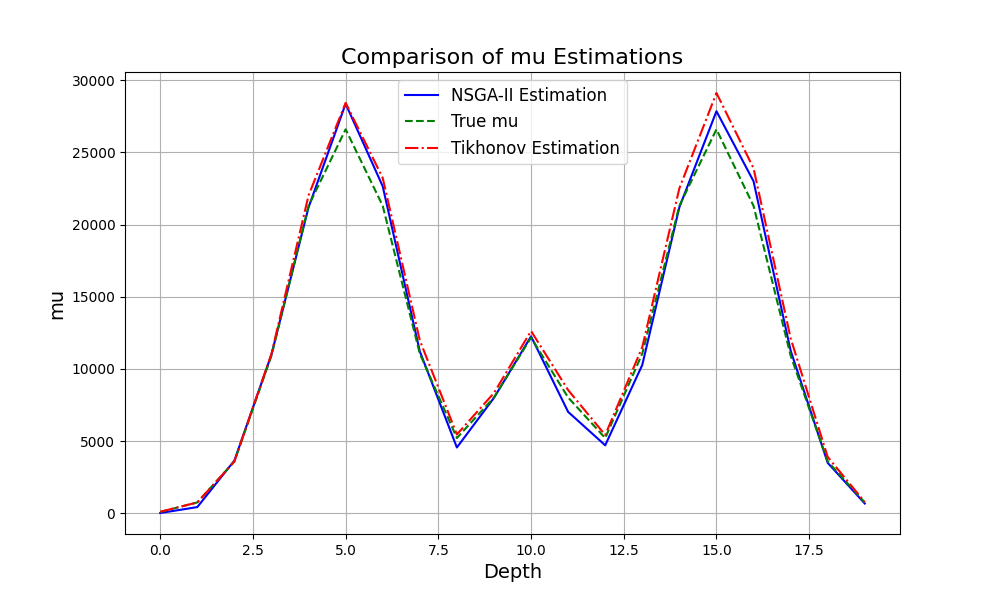
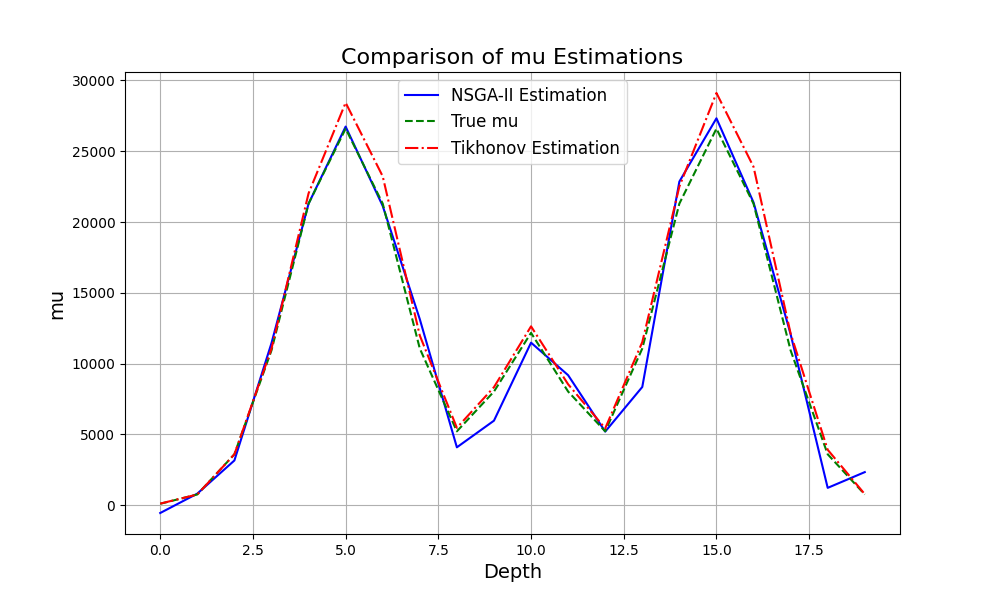
nsga+tikhonov

Changed region(s): [[0.062, 0.18, 0.899, 0.87]]

diff --git a/NSGA_III_Baseline.py b/NSGA_III_Baseline.py
@@ -1,5 +1,5 @@
 import matplotlib.pyplot as plt
-from pymoo.algorithms.moo.nsga3 import NSGA3
+from pymoo.algorithms.moo.nsga2 import NSGA2
 from pymoo.optimize import minimize
 from pymoo.util.ref_dirs import get_reference_directions
 from pymoo.visualization.scatter import Scatter
@@ -33,16 +33,16 @@ n_var = 20
 tikhonov_aprox = regularized_estimation(MODEL, SIGNAL, dim=1).reshape(n_var)  # Asegurarse de que sea un vector de una dimensión
 
 
-problem = ImageReconstructionProblem(MODEL, PROBE, SIGNAL, n_var, tikhonov_aprox=None)
+problem = ImageReconstructionProblem(MODEL, PROBE, SIGNAL, n_var, tikhonov_aprox=tikhonov_aprox)
 
 # Crear las direcciones de referencia para la optimización
 ref_dirs = get_reference_directions("das-dennis", problem.n_obj, n_partitions=15)
 
 # Crear el objeto del algoritmo
-algorithm = NSGA3(pop_size=100, 
-                  ref_dirs=ref_dirs,
-                  crossover=CustomCrossover(0.5),
-                  mutation=CustomMutation(0.8, 500),
+algorithm = NSGA2(pop_size=200, 
+                  #ref_dirs=ref_dirs,
+                  crossover=CustomCrossover(prob=0.9),
+                  mutation=CustomMutation(prob=0.9, max_generations=1000),
                   eliminate_duplicates=True)
 
 
@@ -51,7 +51,7 @@ algorithm = NSGA3(pop_size=100,
 res = minimize(problem,
                algorithm,
                seed=1,
-               termination=('n_gen',500),
+               termination=('n_gen',1000),
                verbose=True) 
 
 # Acceder a las soluciones y valores de las funciones objetivo

diff --git a/NSGA_me.py b/NSGA_me.py
@@ -36,7 +36,7 @@ tikhonov_aprox = regularized_estimation(MODEL, SIGNAL, dim=1).reshape(n_var)  # 
 
 problem = ImageReconstructionProblem(MODEL, PROBE, SIGNAL, n_var, tikhonov_aprox=tikhonov_aprox)
 
-nsga2 = NSGA2(generations=500,population_size=100, mutation_rate=0.8, problem=problem)
+nsga2 = NSGA2(generations=450,population_size=100, mutation_rate=0.8, problem=problem)
 
 x = [individual.values[0] for individual in nsga2.P_t]
 y = [individual.values[1] for individual in nsga2.P_t]

diff --git a/MO/MOP_Definition.py b/MO/MOP_Definition.py
@@ -14,7 +14,7 @@ class ImageReconstructionProblem(Problem):
         self.n_obj = 2
         if tikhonov_aprox is not None:
             tikhonov_aprox = tikhonov_aprox.flatten()
-            xl = np.maximum(0, tikhonov_aprox - 1000)  # Asegurar positividad
+            xl = np.maximum(0, tikhonov_aprox - 2000)  # Asegurar positividad
             xu = tikhonov_aprox + 100
         else:
             xl = 750 # Establecer límite inferior en 0 para positividad

diff --git a/MO/custom_mutation.py b/MO/custom_mutation.py
@@ -10,7 +10,7 @@ class CustomMutation(Mutation):
         self.generation = 0
 
     def _do(self, problem, X, **kwargs):
-        self.generation += 0.5
+        self.generation += 0.3
 
         for i in range(X.shape[0]):  # Iterar sobre cada individuo
             if np.random.rand() < self.prob:
